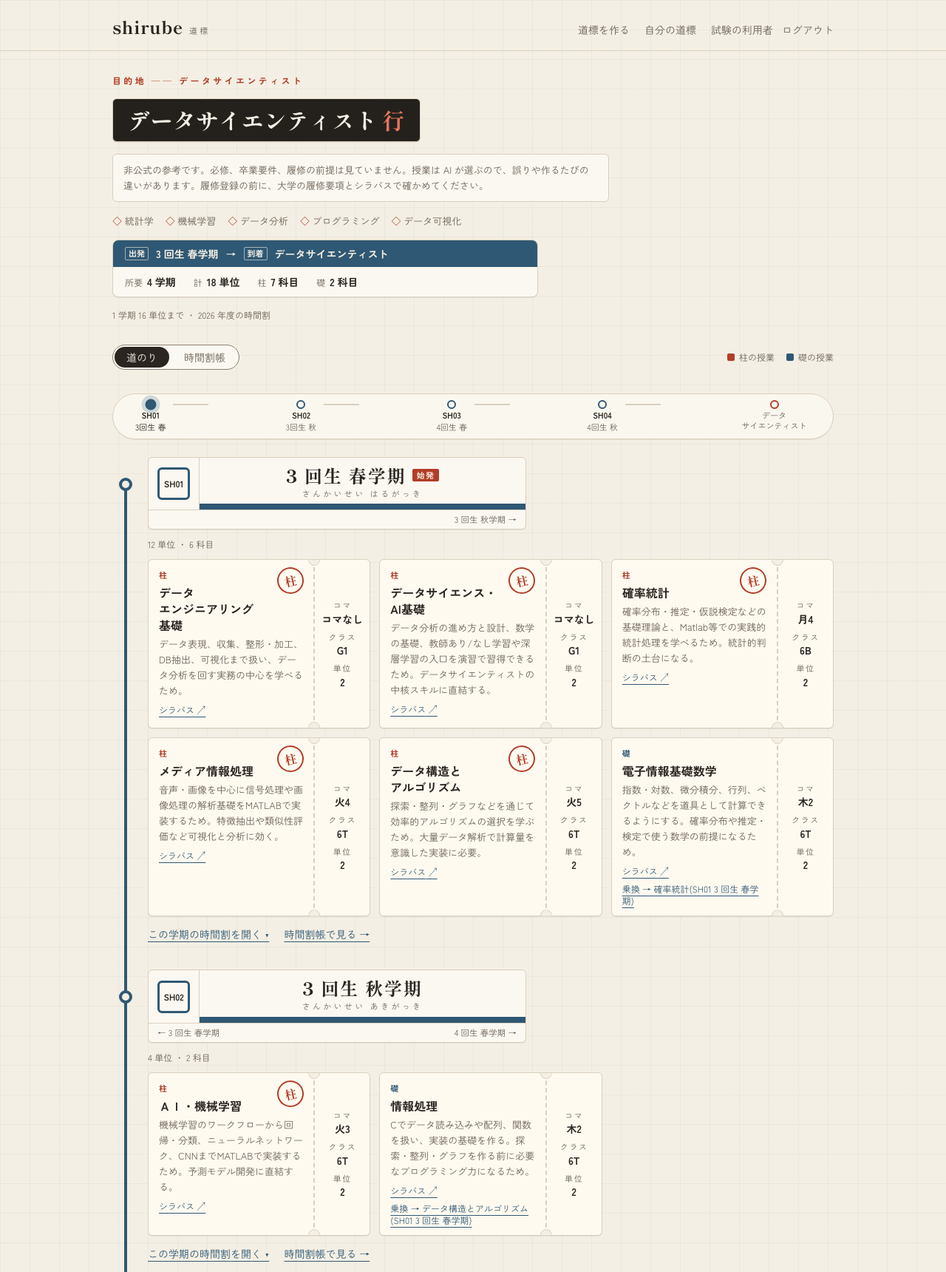
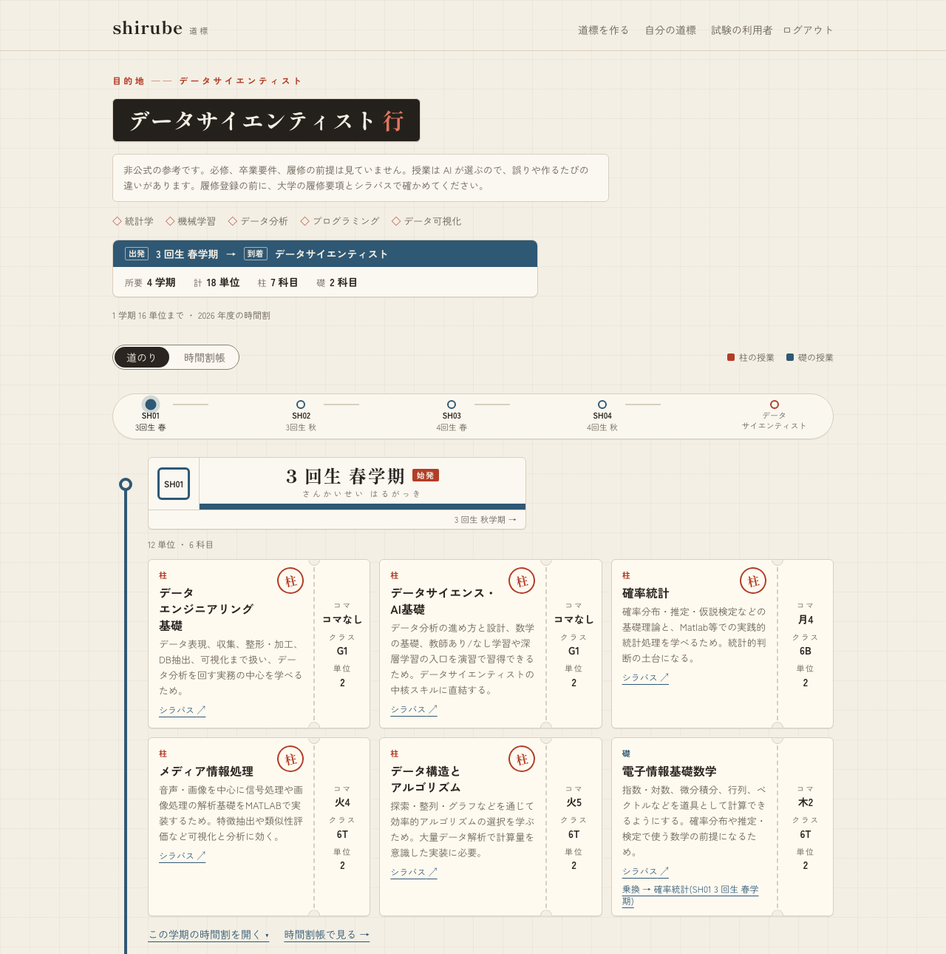
docs: README の ADR 0063 の採り方と確かめ用の数字の説明を記録どおりにする
選考する側の立場の読みの 2 周目で、前の重大な指摘は全て直ったが、直した
ことで次の食い違いが出たと指摘された。

- ADR 0063 の判断を「既定のまま残した」にしたことで、30 職業の時点でねらいが
  差なし(p = 0.089)のまま作者が承知で採った経緯が見えなくなった。「採る条件は
  測る前に書き、その指標で決める」と言い切る上の方で、条件を満たさずに採った
  唯一の例をぼかすと要約が甘く見える。記録どおりに書く
- 確かめ用の 89.7% を「読み取りの揺れで検索の再現率も動いた回の値」と書いたが、
  記録が言っているのは前と後の差に揺れが混ざることで、開発用より高い理由では
  ない。「20 職業を 1 回流しただけの値で、前の側から +20.7 跳ねた回」にする

軽微なもの

- 見どころ 3 行を GIF の前に移し、リポジトリのトップの 1 画面目に入れる
- 結果の道のりの画像を最初の学期まで(高さ 1290)で切り、全幅でも下の節を
  押し下げすぎないようにする
- 判定の決定の言い方を記録に合わせ(足した 20 職業の 17 件は多数に合わせて土台)、
  判定者とアプリの LLM の系統を分けて循環を避けていることを書く
- 0049 と 0052 の差ありは当時のブートストラップの区間で判定したと書く。上の
  2 行は前と後も別の時刻だと書く
- 0065 の -4.4 は丸める前の値の差だと書き、ねらいの名前を指標の表の
  「候補の再現率(@20)」にそろえる
- 0080 の行を、増えた柱の多くは判定で土台か関係なしで、ねらった職業の
  取りこぼしは直らなかった、に絞る(見本の画像の科目数と食い違って見えるため、
  科目数は書かない)
- 中心の適合率が低めに出る理由に、0080 で柱をわざと広げたことを足す
- 「揺れ」を時刻による「指標のずれ」と分ける、「先の学期」を「前の学期」に、
  「判」を「印」に、「並べて呼び」を「並行して投げ」に、「だけ」の重なり、
  「期待する授業」を「期待する科目」に、見どころの「モデルの変更」と CI の
  言い方を実際に合わせる
- ADR の中では作者を「高橋さん」と書いていることを断る(ADR の本文は変えない)

見送ったもの

- スマホの幅の画像でダークモードの切り替えを隠したこと: README の画像は
  画面の中身を見せるためのもので、固定の部品は消して撮る。実際の重なりは
  画面の直しとして別に扱う

Claude-Session: https://claude.ai/code/session_01Uv4W9cMkDQr3YL2szVJVhC

diff --git a/README.md b/README.md
@@ -9,15 +9,15 @@
 
 ログイン前のトップで、実際の出力の見本の道標を見られます。道標を作るには Google でのログインが要り、今はテストの利用者に限っています。
 
+## 技術の見どころ
+
+- **LLM を数字で直す**: 開発用 50 職業と確かめ用 20 職業の評価データ、2 つの設定を交互に流す実験の道具、並べ替え検定で、指示文や検索の作りの変更を採るかを決めます。採る条件は測る前に ADR に書き、採らなかった改善も残しています([評価と改善のサイクル](#評価と改善のサイクル))
+- **段ごとに測れる推薦**: 職業の読み取り → シラバスのベクトル検索 → LLM が候補から授業を選ぶ段に分け、期待する科目をどの段で落としたかまで数えます([推薦の仕組み](#推薦の仕組み))
+- **本番で動かす**: AWS EC2 と Docker Compose で公開し、1 件約 1 円、1 日の上限、前払いで費用を抑えています。バックエンドはクリーンアーキテクチャで作り、型の厳しい検査と画面の通しの試験(axe で WCAG 2.2 AA)を CI で回しています([設計](#設計)、[品質](#品質))
+
 ![トップから見本の道標までスクロールし、授業のカードに触れると、つながる授業のカードが光る様子](docs/images/demo.gif)
 
 > 大学とは関係のない個人の非公式のアプリです。必修、卒業要件、履修の前提は見ていません。授業は AI が選ぶので、誤りや作るたびの違いがあります。
-
-## 技術の見どころ
-
-- **LLM を数字で直す**: 開発用 50 職業と確かめ用 20 職業の評価データ、2 つの設定を交互に流す実験の道具、並べ替え検定で、指示文やモデルの変更を採るかを決めます。採る条件は測る前に ADR に書き、採らなかった改善も残しています([評価と改善のサイクル](#評価と改善のサイクル))
-- **段ごとに測れる推薦**: 職業の読み取り → シラバスのベクトル検索 → LLM が候補から授業を選ぶ段に分け、期待する授業をどの段で落としたかまで数えます([推薦の仕組み](#推薦の仕組み))
-- **本番で動かす**: AWS EC2 と Docker Compose で公開し、1 件約 1 円、1 日の上限、前払いで費用を抑えています。クリーンアーキテクチャ、型の厳しい検査、画面の通しの試験(axe で WCAG 2.2 AA)を CI で回しています([設計](#設計)、[品質](#品質))
 
 ## 何を解決するか
 
@@ -28,13 +28,13 @@
 - 職業の中心になる授業を「柱」、柱の前提になる授業を「礎」として分け、どの礎がどの柱につながるかを示す
 - 卒業までの残りの学期に、曜日と時限が重ならず、1 学期の単位の上限に収まるように並べる
 
-道標に並ぶのは推薦した授業だけで、必修や卒業要件の授業は入りません。前提の授業を先の学期に置く制約もかけていないので、礎が柱より後の学期に来ることがあります([ADR 0007](docs/adr/0007-greedy-timetable.md)、[0034](docs/adr/0034-taken-courses.md))。理由の文の良し悪しは、まだ測っていません。
+道標に並ぶのは推薦した授業だけで、必修や卒業要件の授業は入りません。前提の授業を前の学期に置く制約もかけていないので、礎が柱より後の学期に来ることがあります([ADR 0007](docs/adr/0007-greedy-timetable.md)、[0034](docs/adr/0034-taken-courses.md))。理由の文の良し悪しは、まだ測っていません。
 
 ## 主な機能
 
 ![結果の画面。職業の行先、出発と到着の要約、学期ごとの見出しと、授業ごとのカード(柱か礎か、選んだ理由、コマ、単位)](docs/images/result-route-1280.png)
 
-結果の画面は、学期を駅、授業を切符に見立てた路線図です。切符には柱か礎かの判、選んだ理由、コマ、単位、シラバスの原ページへのリンクを載せ、礎の切符に触れると、つながる柱の切符が光ります(礎から柱への乗り換え)。
+結果の画面は、学期を駅、授業を切符に見立てた路線図です。切符には柱か礎かの印、選んだ理由、コマ、単位、シラバスの原ページへのリンクを載せ、礎の切符に触れると、つながる柱の切符が光ります(礎から柱への乗り換え)。
 
 | 職業と回生を入れる | 学期ごとの時間割帳 |
 |---|---|
@@ -47,7 +47,7 @@
   <img src="docs/images/result-375-tickets.png" width="260" alt="スマホの幅の授業のカード。学期の帯が上に付いてくる">
 </p>
 
-作成中の画面は、道標を作る 4 つの段(読み取り、検索、選び直し、配置)の進みを路線の駅のように見せ、駅の発車案内のような板で待ち時間を出します([ADR 0031](docs/adr/0031-route-design.md)、[0079](docs/adr/0079-progress-board.md))。スマホの幅でも読めて、明るい見た目と暗い見た目を切り替えられます。キーボードだけで操作でき、作成の段と完成を読み上げの枠で伝え、WCAG 2.2 の AA を目安にしています([ADR 0056](docs/adr/0056-accessibility.md))。
+作成中の画面は、道標を作る 4 つの段(読み取り、検索、選び直し、配置。下の「推薦の仕組み」)の進みを路線の駅のように見せ、駅の発車案内のような板で待ち時間を出します([ADR 0031](docs/adr/0031-route-design.md)、[0079](docs/adr/0079-progress-board.md))。スマホの幅でも読めて、明るい見た目と暗い見た目を切り替えられます。キーボードだけで操作でき、作成の段と完成を読み上げの枠で伝え、WCAG 2.2 の AA を目安にしています([ADR 0056](docs/adr/0056-accessibility.md))。
 
 ほかに、始める学期より前に開講された授業を「もう取った」と答えて道標から外す機能があります。答えた授業は覚えて、次に作る道標の候補からも除きます([ADR 0034](docs/adr/0034-taken-courses.md)、[0035](docs/adr/0035-taken-candidates.md))。自分の道標の一覧と削除、退会もあります。
 
@@ -65,7 +65,7 @@ flowchart LR
 
 - **読み取り**: LLM が職業名を、その職業の解釈と必要なスキルに直します。学科の授業に無い応用分野で決まる細かい職種(Web エンジニアなど)は、授業で備えられる広い職業として読み、そう読んだことを前提として画面に出します([ADR 0032](docs/adr/0032-broad-occupation.md))。同じ職業名の読み取りは覚えて使い回し、揺れと費用を減らします([ADR 0052](docs/adr/0052-reading-cache.md))
 - **検索**: シラバスを節(授業概要、到達目標、授業計画)ごとに埋め込み、職業全体のクエリと各スキルのクエリの順位から交互に 20 件の候補を取ります([ADR 0005](docs/adr/0005-section-chunking.md)、[0063](docs/adr/0063-search-by-skill.md))
-- **選び直し**: 検索の候補 20 件のシラバスの抜粋を LLM に読ませ、柱と礎を理由つきで選ばせます。職業に少しでも役立つ授業は、迷っても選ばせます([ADR 0080](docs/adr/0080-selection-coverage.md))。同じ問いを 3 回並べて呼び、2 回以上選ばれた授業だけを残します。何回で残すかは設定で替えられます([ADR 0049](docs/adr/0049-selection-votes.md)、[0081](docs/adr/0081-selection-min-votes.md))。2 回目からは少し遅らせて入力のキャッシュを効かせ、費用を下げています([ADR 0051](docs/adr/0051-vote-delay.md))
+- **選び直し**: 検索の候補 20 件のシラバスの抜粋を LLM に読ませ、柱と礎を理由つきで選ばせます。職業に少しでも役立つ授業は、迷っても選ばせます([ADR 0080](docs/adr/0080-selection-coverage.md))。同じ問いを LLM に 3 回並行して投げ、2 回以上選ばれた授業だけを残します。何回で残すかは設定で替えられます([ADR 0049](docs/adr/0049-selection-votes.md)、[0081](docs/adr/0081-selection-min-votes.md))。2 回目からは少し遅らせて入力のキャッシュを効かせ、費用を下げています([ADR 0051](docs/adr/0051-vote-delay.md))
 - **配置**: 学期ごとに、配当回生と開講学期を満たし、コマが重ならず、単位の上限に収まる授業を貪欲法で詰めます。前提科目は制約にせず表示だけにしています([ADR 0007](docs/adr/0007-greedy-timetable.md))
 
 将来の学期のシラバスはまだ無いので、当年度のシラバスと時間割を翌年度以降の代理にして組んでいます([ADR 0010](docs/adr/0010-graduation-roadmap.md))。
@@ -84,32 +84,32 @@ flowchart LR
   H -->|直しを決めたあとだけ| V[確かめ用で<br/>平均と検定だけを見る]
 ```
 
-- **期待する科目(正解)**: 職業ごとに、Claude のサブエージェントを判定者にして、科目ごとに中心・土台・関係なし(中心と土台は、画面の柱と礎にあたる)の票を入れさせ、その多数決で作りました。判定者は立場の違う 3 体(採用・育成担当のエンジニア、カリキュラムを設計する教員、進路を考える 3 回生)で、科目が多いので前半と後半を別の判定者に渡しています。中心の票が 1 つだけの科目は、作者が票と根拠を見て決めました([ADR 0017](docs/adr/0017-eval-judging.md)、[0023](docs/adr/0023-foundation-links-core.md)、[0054](docs/adr/0054-thirty-occupations.md))。人が付けた正解ではなく、同じ系統の LLM の判定なので、判定者の癖は正解に残ります
-- **実験の道具**: `experiment run` が評価データの職業に本番と同じ道(読み取り → 検索 → 選び直し)で推薦を流し、精度、揺れ、1 件あたりの費用と時間を JSON に残します([ADR 0048](docs/adr/0048-recommendation-experiments.md))。揺れは、同じ職業を何回か作ったときに選んだ授業の重なり(Jaccard)で測ります。比べる 2 つの設定は `experiment pair` で職業と回ごとに交互に流し、流した時刻による揺れを差から消します。同じ設定を別の時刻に流すと、関係なしが 9 ポイントほど動くと分かったためです([ADR 0055](docs/adr/0055-interleaved-runs.md))
+- **期待する科目(正解)**: 職業ごとに、Claude のサブエージェントを判定者にして、科目ごとに中心・土台・関係なし(中心と土台は、画面の柱と礎にあたる)の票を入れさせ、その多数決で作りました。判定者は立場の違う 3 体(採用・育成担当のエンジニア、カリキュラムを設計する教員、進路を考える 3 回生)で、科目が多いので前半と後半を別の判定者に渡しています。中心の票が 1 つだけの科目は、作者が票と根拠を見て決めました(後から足した 20 職業の 17 件は、判定者の多数に合わせて全て土台にしました。[ADR 0017](docs/adr/0017-eval-judging.md)、[0023](docs/adr/0023-foundation-links-core.md)、[0054](docs/adr/0054-thirty-occupations.md))。人が付けた正解ではなく、判定者 3 体は同じ Claude なので、判定者の癖は正解に残ります。アプリの LLM(OpenAI)とは系統を分け、答え合わせが循環しないようにしています
+- **実験の道具**: `experiment run` が評価データの職業に本番と同じ道(読み取り → 検索 → 選び直し)で推薦を流し、精度、揺れ、1 件あたりの費用と時間を JSON に残します([ADR 0048](docs/adr/0048-recommendation-experiments.md))。揺れは、同じ職業を何回か作ったときに選んだ授業の重なり(Jaccard)で測ります。比べる 2 つの設定は `experiment pair` で職業と回ごとに交互に流し、流した時刻による指標のずれを差から消します。同じ設定を別の時刻に流すと、関係なしが 9 ポイントほど動くと分かったためです([ADR 0055](docs/adr/0055-interleaved-runs.md))
 - **統計の決まり**: 差の 95% 信頼区間は職業を選び直すブートストラップで、差ありは職業ごとに前と後を入れ替える並べ替え検定(p < 0.05)で決めます。判定に使う指標と採る条件は、変える前に ADR に書きます([ADR 0053](docs/adr/0053-paired-bootstrap.md)、[0055](docs/adr/0055-interleaved-runs.md))
 - **取りこぼしの内訳**: `experiment analyze` が、期待する科目を読み取り、検索、選び直しのどの段で落としたかを数え、次に直す段を決める材料にします([ADR 0073](docs/adr/0073-experiment-analysis.md))
-- **確かめ用を分ける**: 開発用の取りこぼしを見て決めた直しは、決めるときに見た職業にだけ効いていることがありました(下の表の [ADR 0063](docs/adr/0063-search-by-skill.md) の行)。そこで確かめ用の 20 職業を取っておき、直しを決めて ADR に書いたあとにだけ流して、平均と検定だけを見ます([ADR 0067](docs/adr/0067-heldout-occupations.md))
+- **確かめ用を分ける**: 開発用の取りこぼしを見て決めた直しは、決めるときに見た職業にだけ効いていることがありました(下の表の [ADR 0063](docs/adr/0063-search-by-skill.md) の行)。そこで確かめ用の 20 職業を取っておき、直しを決めて ADR に書いたあとに流して、職業ごとの結果は見ずに平均と検定を見ます([ADR 0067](docs/adr/0067-heldout-occupations.md))
 
 | 指標 | 意味 |
 |---|---|
 | 選んだ科目のうち関係なし | 選んだ授業のうち、判定で関係なしになった授業の割合。誤りの目安 |
 | 期待する科目を中心に選んだ割合 | 判定で中心になった授業(期待する科目)のうち、柱に選んだ割合。再現率にあたる |
-| 中心の適合率 | 柱に選んだ授業のうち、期待する科目の割合。判定者の中心は選び手より狭く、柱の半分ほどは判定では土台なので、低めに出る |
-| 候補の再現率 | 期待する科目のうち、検索が 20 件の候補に入れた割合 |
+| 中心の適合率 | 柱に選んだ授業のうち、期待する科目の割合。判定者の中心は選び手より狭く(0080 の前の分析で、柱の半分ほどが判定では土台)、0080 で柱をわざと広げたので、低めに出る |
+| 候補の再現率(@20) | 期待する科目のうち、検索が 20 件の候補に入れた割合 |
 
 ### 採った改善と採らなかった改善
 
 | 変えたこと | ねらい | 結果 | 判断 |
 |---|---|---|---|
-| 選び直しを 3 回の多数決に([ADR 0049](docs/adr/0049-selection-votes.md)) | 関係なし | 23% → 10%(差あり)。費用は約 1.9 倍。10 職業を別の時刻に流した比べで、時刻の揺れも入る | 採った |
-| 職業の読み取りを覚える([ADR 0052](docs/adr/0052-reading-cache.md)) | 揺れと費用 | 回どうしの重なり 0.56 → 0.73(差あり)。費用は初めての職業で 1.00 円のまま、覚えた職業で 0.59 円。10 職業を別の時刻に流した比べ | 採った |
-| 検索を職業全体と各スキルの交互に([ADR 0063](docs/adr/0063-search-by-skill.md)) | 候補の再現率 | 50 職業で +3.3 ポイント(p = 0.391、差なし)。上がったのは直しを決めるときに見た 30 職業だけで(+6.4)、足した 20 職業では上がらなかった(-1.2) | 既定のまま残した。ねらいの差は出なかったが、関係なし(判定には使わない指標)は 23.0% → 15.1% で、戻す理由になる悪化は無かった |
-| 読み取りに学科の分野を書く([ADR 0065](docs/adr/0065-department-fields.md)) | 検索の再現率 @20 | 0.910 → 0.865(-4.4 ポイント、p = 0.105) | 採らなかった |
+| 選び直しを 3 回の多数決に([ADR 0049](docs/adr/0049-selection-votes.md)) | 関係なし | 23% → 10%(差あり)。費用は約 1.9 倍。10 職業を別の時刻に流し、当時のブートストラップの区間で判定した比べで、時刻によるずれも入る | 採った |
+| 職業の読み取りを覚える([ADR 0052](docs/adr/0052-reading-cache.md)) | 揺れと費用 | 回どうしの重なり 0.56 → 0.73(差あり)。費用は初めての職業で 1.00 円のまま、覚えた職業で 0.59 円。10 職業を別の時刻に流し、当時のブートストラップの区間で判定した比べ | 採った |
+| 検索を職業全体と各スキルの交互に([ADR 0063](docs/adr/0063-search-by-skill.md)) | 候補の再現率 | 50 職業で +3.3 ポイント(p = 0.391、差なし)。上がったのは直しを決めるときに見た 30 職業だけで(+6.4)、足した 20 職業では上がらなかった(-1.2) | 30 職業の時点でねらいが差なし(p = 0.089)のまま、作者が承知で採った。3 つの測り方で再現率が同じ向きに上がり、悪化が無かったため |
+| 読み取りに学科の分野を書く([ADR 0065](docs/adr/0065-department-fields.md)) | 候補の再現率(@20) | 0.910 → 0.865(丸める前の値で -4.4 ポイント、p = 0.105) | 採らなかった |
 | 選び直しで迷った授業を選ばない([ADR 0069](docs/adr/0069-selection-restraint.md)) | 関係なし | 開発用 16.4% → 10.6%(p = 0.004)、確かめ用 15.0% → 12.2%(p = 0.210、下がる向き) | 採った。効き目は確かめ用で開発用の半分ほど。のちに 0080 で替えた |
-| 少しでも役立つ授業は迷っても選ぶ([ADR 0080](docs/adr/0080-selection-coverage.md)) | 1 職業に選ぶ柱と礎の数 | 柱が開発用 4.60 → 5.44(p < 0.001)、確かめ用 4.35 → 6.15(p = 0.001)。関係なしは開発用 12.3% → 16.4%(p = 0.027) | 道標を広く取りたいので採った。増えたのは主に関係の薄い授業で、きっかけのデータサイエンティストは 6 → 7 科目にとどまった。確かめ用の条件を「増える向き」だけにしたので、ほぼ必ず通る条件だった |
+| 少しでも役立つ授業は迷っても選ぶ([ADR 0080](docs/adr/0080-selection-coverage.md)) | 1 職業に選ぶ柱と礎の数 | 柱が開発用 4.60 → 5.44(p < 0.001)、確かめ用 4.35 → 6.15(p = 0.001)。関係なしは開発用 12.3% → 16.4%(p = 0.027) | 道標を広く取りたいので採った。増えた柱の多くは判定では土台か関係なしで、ねらった職業(データサイエンティスト)の取りこぼしは直らなかった。確かめ用の条件は「増える向き」だけで、ほぼ必ず通るものだった |
 | 選び直しの 3 回のうち 1 回でも選べば残す([ADR 0081](docs/adr/0081-selection-min-votes.md)) | 1 職業に選ぶ柱 | 5.66 → 6.20(p = 0.076、差なし)。増えたのは礎で、関係なしは 13.4% → 19.7%(p = 0.003) | 採らなかった。設定で切り替えられる形だけ残した |
 
-行ごとに、測った時刻と職業の数が違います。同じ設定でも流した時刻で関係なしが 9 ポイントほど動くので、行と行の数字はつながらず、比べられるのは各行の前と後だけです。細かい数字と経緯は、下の「推薦の評価」にあります。
+行ごとに、測った時刻と職業の数が違います。同じ設定でも流した時刻で関係なしが 9 ポイントほど動くので、行と行の数字はつながらず、比べられるのは各行の前と後だけです(上の 2 行は、前と後も別の時刻に流しています)。細かい数字と経緯は、下の「推薦の評価」にあります。
 
 ### 今の精度と費用
 
@@ -119,7 +119,7 @@ flowchart LR
 | 期待する科目を中心に選んだ割合 | 67.5% | 89.7% |
 | 中心の適合率 | 37.5% | 42.3% |
 
-[ADR 0080](docs/adr/0080-selection-coverage.md) で選ぶ授業を広げた後の pair の、後の側の 1 回ずつの値です。確かめ用の 89.7% は、職業の読み取りの揺れで検索の再現率も動いた回の値で、開発用より高く出ています。
+[ADR 0080](docs/adr/0080-selection-coverage.md) で選ぶ授業を広げた後の pair の、後の側の 1 回ずつの値です。確かめ用の 89.7% は 20 職業を 1 回流しただけの値で、前の側の 69.0% から +20.7 ポイント跳ねた回です。
 
 1 件の推薦は約 1 円です(初めての職業で 1.07 円。同じ職業名の読み取りを覚えると下がります)。道標の受け付けは 1 人 1 日 3 件、全体で 1 日 30 件までにし、OpenAI は前払いで自動の補充を切って、使いすぎの最後の歯止めにしています([ADR 0038](docs/adr/0038-plan-quota.md))。
 
@@ -138,7 +138,7 @@ flowchart TB
 - API の型は OpenAPI から生成してコミットし、backend の試験が OpenAPI との食い違いを見つけます([ADR 0030](docs/adr/0030-screens.md))
 - 設計の判断は、選択肢、決定、理由、受け入れたトレードオフ、見直す条件を [ADR](docs/adr/README.md) に書いています(2026-10-31 時点で 81 本)
 
-このリポジトリは Claude Code(Anthropic のコーディングエージェント)と作りました。コード、試験、文書の多くは Claude Code が書き、何を作るか、設計の選択肢からどれを選ぶか、改善を採るかどうかは作者が決めて ADR に残しています。Claude Code に守らせる決まり(層の依存の向き、ADR を先に書くことなど)は [CLAUDE.md](CLAUDE.md) にあります。
+このリポジトリは Claude Code(Anthropic のコーディングエージェント)と作りました。コード、試験、文書の多くは Claude Code が書き、何を作るか、設計の選択肢からどれを選ぶか、改善を採るかどうかは作者が決めて ADR に残しています。Claude Code に守らせる決まり(層の依存の向き、ADR を先に書くことなど)は [CLAUDE.md](CLAUDE.md) にあります。ADR の中では、作者を「高橋さん」と書いています。
 
 ## 品質
 
